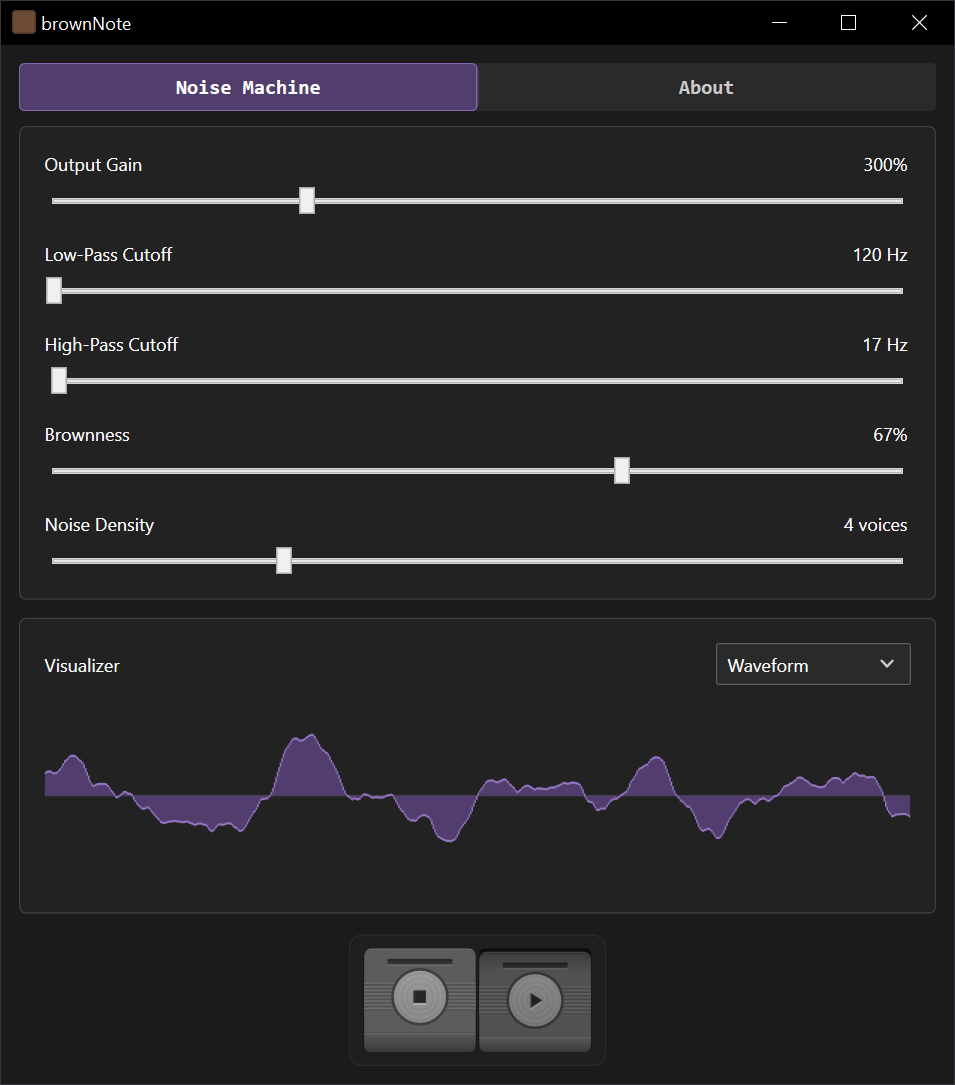
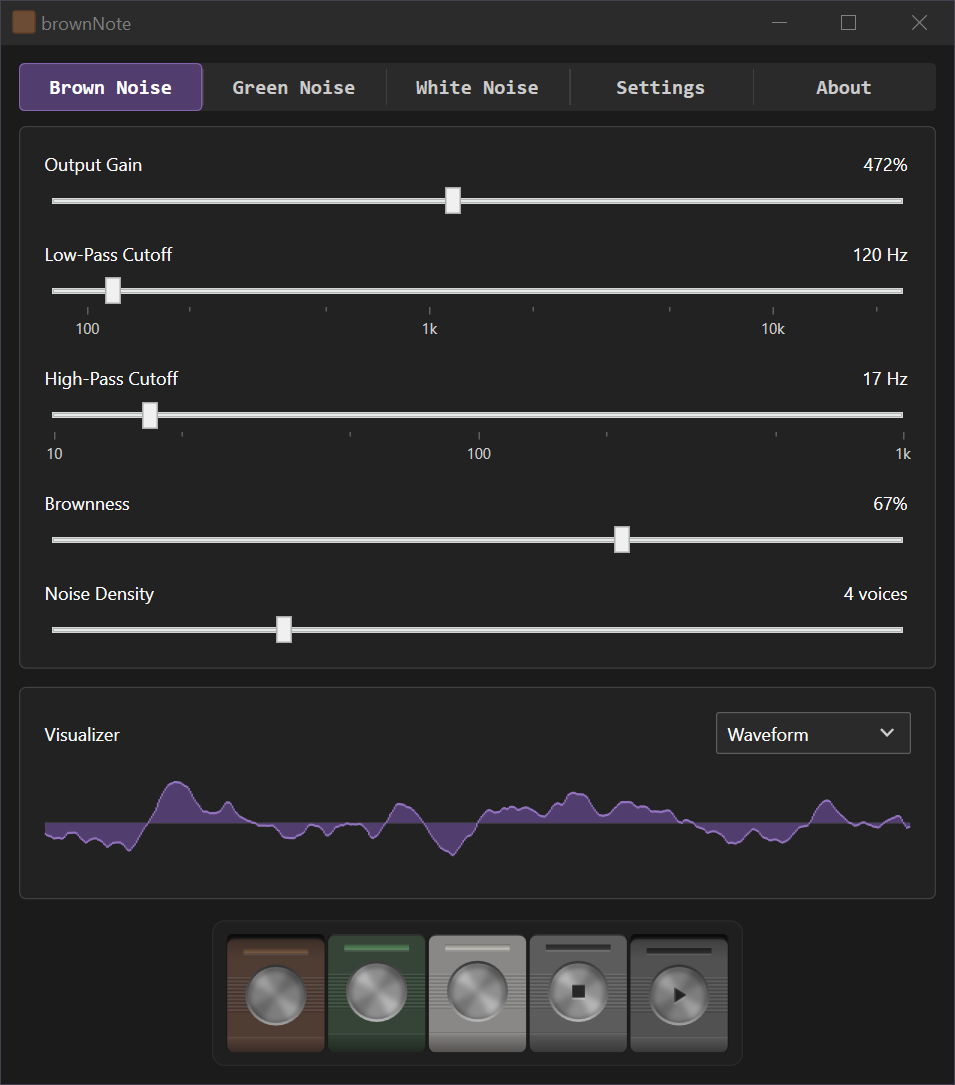
Update README.md and associated `scr\*.png`

diff --git a/README.md b/README.md
@@ -14,17 +14,17 @@ Brown noise machine app. Windows only. C# .NET 10 WPF
 </table>
 <!-- End Quick Reference -->
 
-## Visualizer Modes
+## Noise Machine Tabs
 
-| <h3>Waveform</h3> |
+| <h3>Brown</h3> |
 |:---:|
 | <img src="./.res/scr/1.png" width="600" style="margin: 20px; padding: 20px;"> |
 
-| <h3>Spectrum</h3> |
+| <h3>Green</h3> |
 |:---:|
 | <img src="./.res/scr/2.png" width="600" style="margin: 20px; padding: 20px;"> |
 
-| <h3>Level Meter</h3> |
+| <h3>White</h3> |
 |:---:|
 | <img src="./.res/scr/3.png" width="600" style="margin: 20px; padding: 20px;"> |
 
